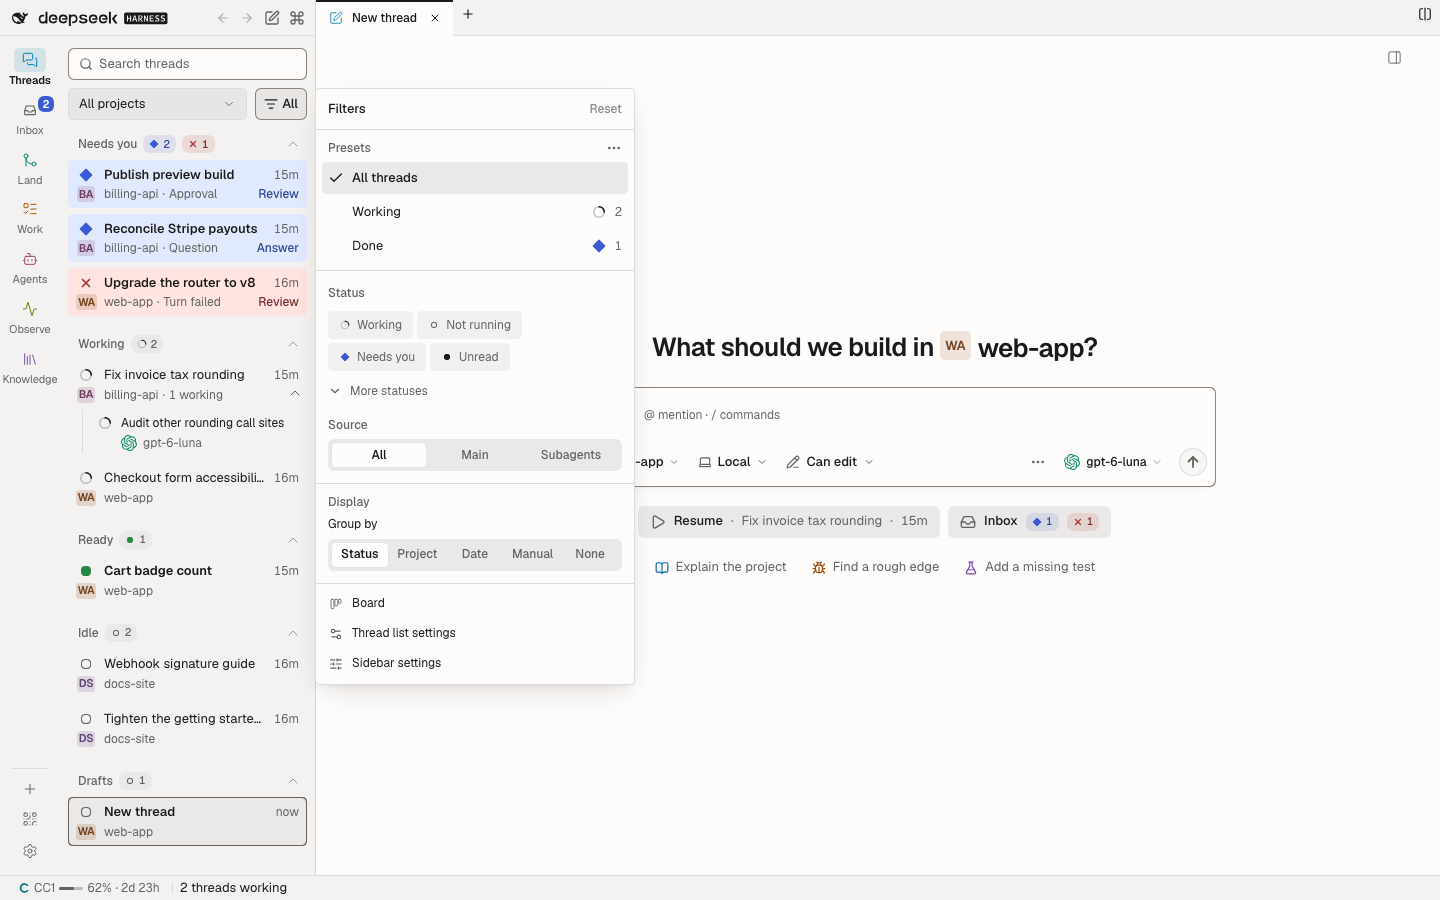
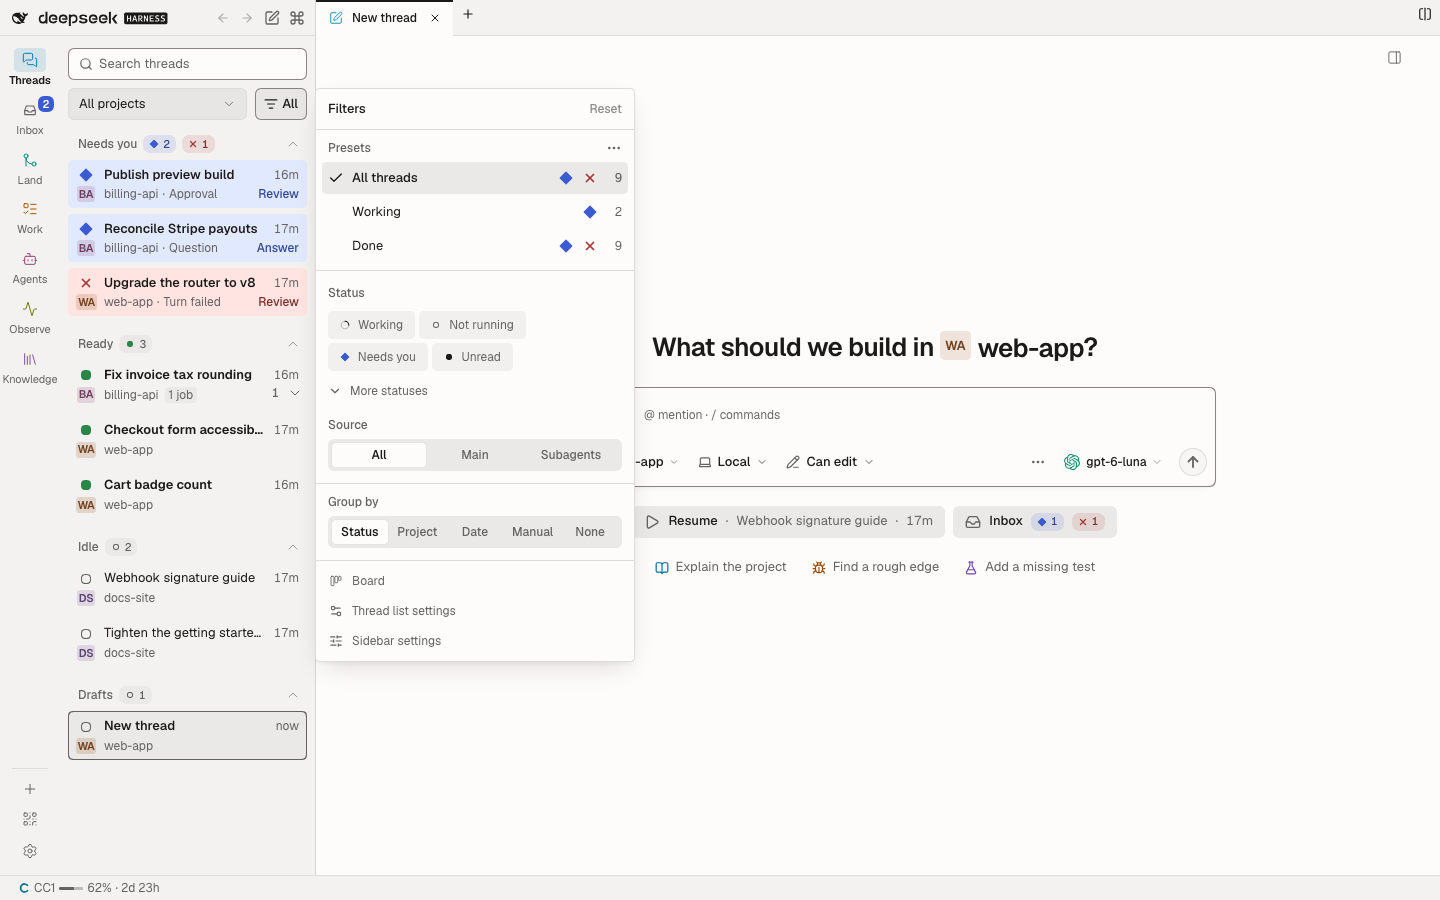
docs(thread-sidebar): describe the round-29 Filters panel and hover strip, refresh their shots
The README and the two Filter screenshots now show round 29: preset rows with a plain count and the Needs-you or Failed mark only, an edited preset kept checked with Save and Discard in its row, More statuses above what it reveals, Thread state, the count badge on the closed button, one Group by heading, the darker dark segment track, and the hover strip that shows an action only where it clears the title's last glyph.

diff --git a/plugins/@dshfiles/thread-sidebar/README.md b/plugins/@dshfiles/thread-sidebar/README.md
@@ -541,35 +541,42 @@ and keeps the rest for Back and Forward.
 
 ![An acknowledged recent idle thread remains in the date-grouped Done view.](docs/screenshots/thread-list-views-done.png)
 
-**The Filters panel** (round nine, refined in round 28). The Filter button opens
-one panel beside the list, not a menu of submenus: every value shows where it
-sits and applies at once, so the rows it filters stay in view, and a polite live
-region says how many threads the change leaves. It opens on the preset in force.
-Its sticky header reads **Filters … Reset**; on a phone it is the kit's bottom
-sheet (85dvh, the popover fill) with **Reset · Filters · Done** and the project
-as one inline row (Project · All projects ›). Then come the presets (each marked
-with its rows' own glyph, nothing at a count of 0), **Status** chips (each with
-its status glyph, a check while on; no status on means any, and **Clear** sits in
-the heading; **More statuses** is a disclosure for why a thread waits and where
-it is stored, one labelled group each), and **Source** as a segmented control
-(All / Main / Subagents). **Reset filters** covers those: back to All threads
-with no filter on, the grouping kept. Under its own hairline, **Display** holds
-**Group by** (Status / Project / Date / Manual / None, a segmented control), and
-the foot Board, Thread list settings and Sidebar settings.
+**The Filters panel** (round nine, refined in rounds 28 and 29). The Filter
+button opens one panel beside the list, not a menu of submenus: every value
+shows where it sits and applies at once, so the rows it filters stay in view,
+and a polite live region says how many threads the change leaves. It opens on
+the preset in force; closed, the button carries the filters-on count (`All 2`).
+The panel scrolls under its sticky header, **Filters … Reset**; on a phone it is
+the kit's bottom sheet (85dvh, the popover fill) with **Reset · Filters · Done**
+and the project as one inline row (Project · All projects ›). Then come the
+presets (each with a plain count of its rows, and the Needs-you diamond or the
+Failed cross only while one of them needs you or failed; nothing at 0),
+**Status** chips (each with its status glyph, a check while on, the label's
+width reserved; no status on means any, and **Clear** sits in the heading;
+**More statuses**, right under the first row, is a disclosure for Thread state
+and Storage, one labelled group each, and reads **Fewer statuses** while open),
+and **Source** as a segmented control (All / Main / Subagents). **Reset
+filters** covers those: back to All threads with no filter on, the grouping
+kept. Under its own hairline, **Group by** (Status / Project / Date / Manual /
+None, a segmented control), and the foot Board, Thread list settings and
+Sidebar settings in the secondary ink.
 
 **Filter presets** (b:xpvk). The saved views are the Filter panel's presets: its
 **Presets** section comes first, one radio per enabled view, the active one
 checked, and the Filter button names it (`Filter: Needs you`). Changing a group,
 status or source filter afterwards never rewrites the preset: the change is a
-Host-synced `threadViews.draft`, the button reads `Filter: Needs you (edited)`
-with a dot, and the section offers **Save changes to “Needs you”** and **Discard
-changes**; changing the filters back drops the draft. **Save current filters as
+Host-synced `threadViews.draft`, the button reads `Filter: Needs you (edited)`,
+and the preset stays checked as `Needs you · edited` with two icon buttons in its
+row, **Save changes to “Needs you”** and **Discard changes** (the built-in All
+threads offers **Save as new preset…** instead, and cannot be renamed,
+overwritten or deleted); pressing the edited preset again does nothing, and
+changing the filters back drops the draft. **Save current filters as
 preset…** (first in the presets' ⋯ menu) names a new preset (a dialog, pinned to the top on a phone so the
 keyboard never covers it) that stores the
 grouping, filters and the current project scope (`projectFilter`: an id, `''` for
 Unassigned, `null` for All projects), and applies it. **Preset options** (the ⋯
 beside the Presets heading) holds
-**Rename…**, **Update with current filters**, **Delete…** (a confirmation, then an
+**Rename…**, **Save changes to “‹preset›”**, **Delete…** (a confirmation, then an
 Undo notice that puts the preset back where it was), Mark all read / unread and
 **Manage presets…** (the view manager, where a built-in can be hidden). A built-in
 names no project scope, so applying it leaves the project picker alone. ⌘K lists
@@ -704,13 +711,14 @@ in; `rowActionOrder` stores that order and `hiddenRowActions` the ones a row hid
 — an absent id means shown, so a new action ships visible at the end of the saved
 order. The shipped order puts Done in Archive's slot and Archive just before it,
 so a row that hides Archive ends on Done. Hiding one removes only its hover
-button; the context menu keeps every action. The strip never takes the title's place: it
-gets the time slot plus a quarter of the title, so the title keeps three quarters
-of its width under the pointer and a click aimed at it opens the thread. The
-actions past that budget give way from the strip's end (a 260px row shows two
-seats, the first action and `⋯`); they stay in the row menu. The strip lies over
-the time slot and the title's end fades under it, so nothing re-truncates on
-hover; it fades in on enter and leaves at once.
+button; the context menu keeps every action. The strip never overlaps the title:
+`⋯` always sits in the time slot (at least one seat wide), and each further
+action shows only when its whole button starts 8px clear of the resting title's
+last glyph (measured as the pointer enters the row), so a click anywhere on the
+title opens the thread. The actions that do not fit give way from the last one
+in the order; they stay in the row menu. The strip lies over the time slot, so nothing
+re-truncates on hover, and it fades in on enter and leaves at once. Hovering a
+Needs-you or Failed row deepens its wash instead of greying it.
 
 By default a row shows **one** verb on hover, Done, and a `⋯` that opens the
 row menu (a row that needs a resume adds Resume and Dismiss; an archived row shows
